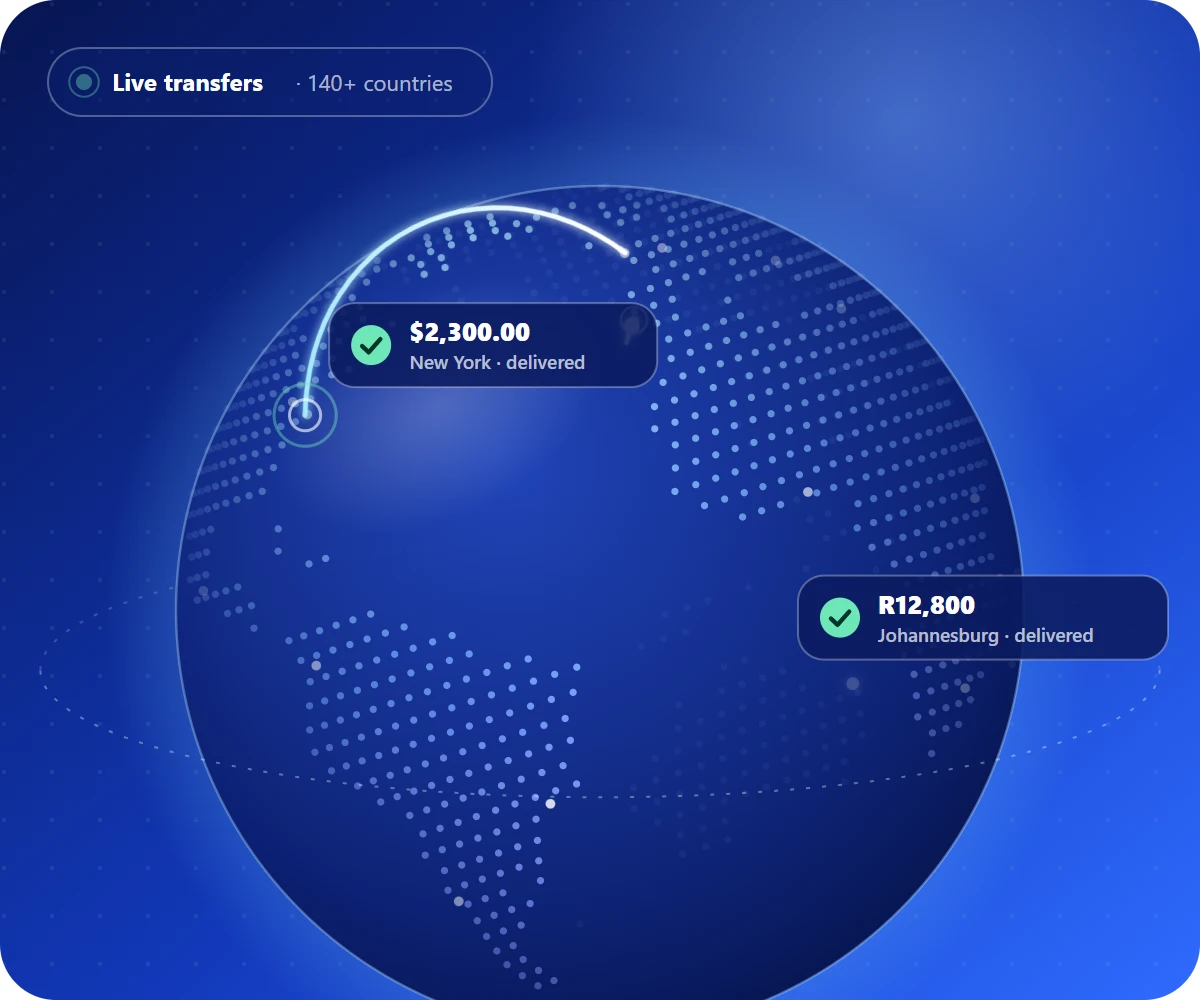
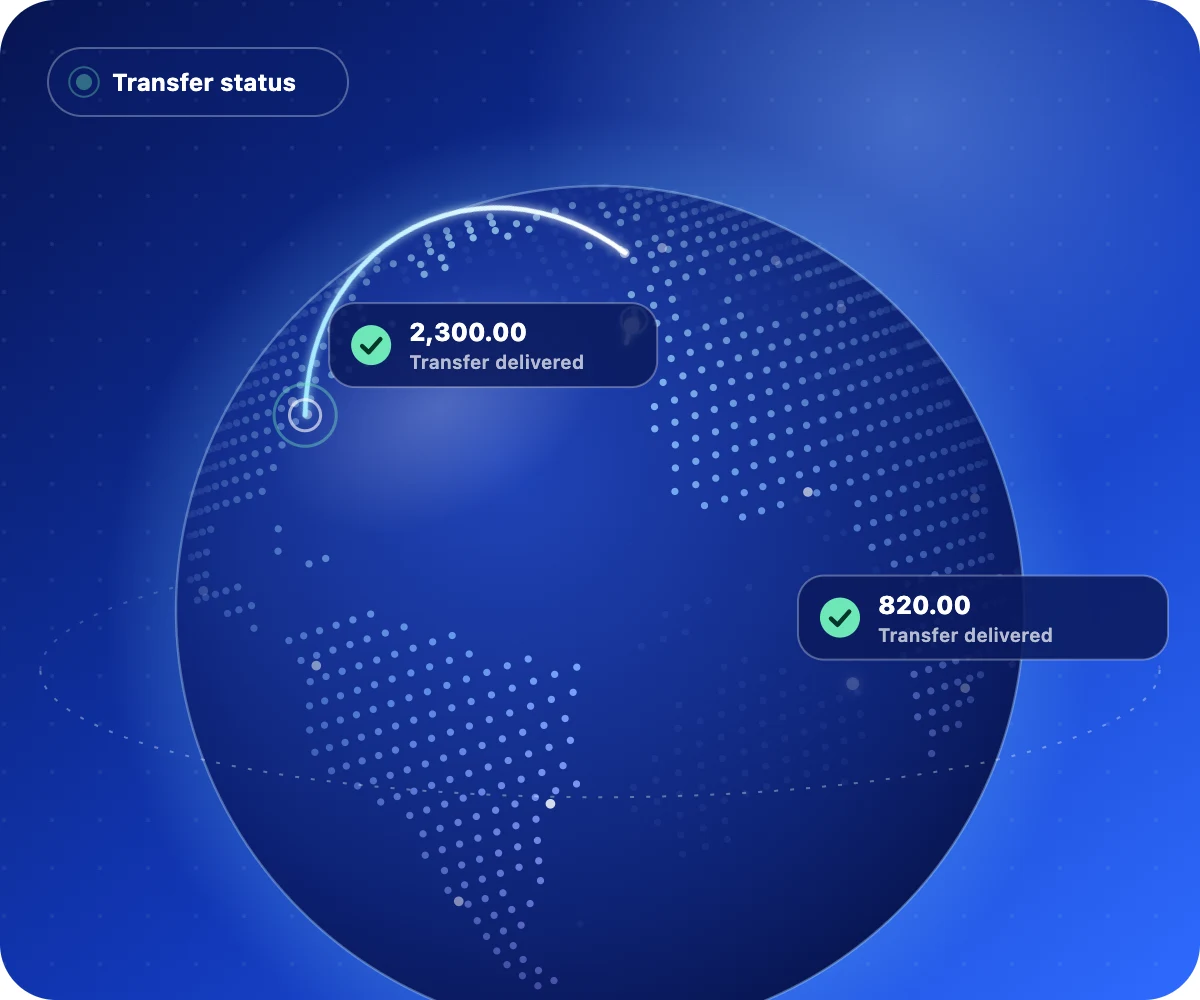
[R5-4] Payment animation: no cities, currencies or country count (content brief); neutral alt text in the seed

Changed region(s): [[0.0925, 0.062, 0.37, 0.124], [0.74, 0.589, 0.925, 0.651], [0.3392, 0.31, 0.4933, 0.372]]

diff --git a/server/prisma/seed-data/products.ts b/server/prisma/seed-data/products.ts
@@ -77,7 +77,7 @@ const products: PageSeed = {
         animation: {
           src: '/animations/global-transfer.svg',
           staticImage: '/animations/global-transfer-static.webp',
-          alt: 'Globe showing live transfers, including $2,300.00 to New York and R12,800 to Johannesburg, both delivered',
+          alt: 'Animation: money transfers delivered on a dotted globe, each shown with its amount and a delivered status',
         },
         imageWidth: 752,
         imageHeight: 627,
